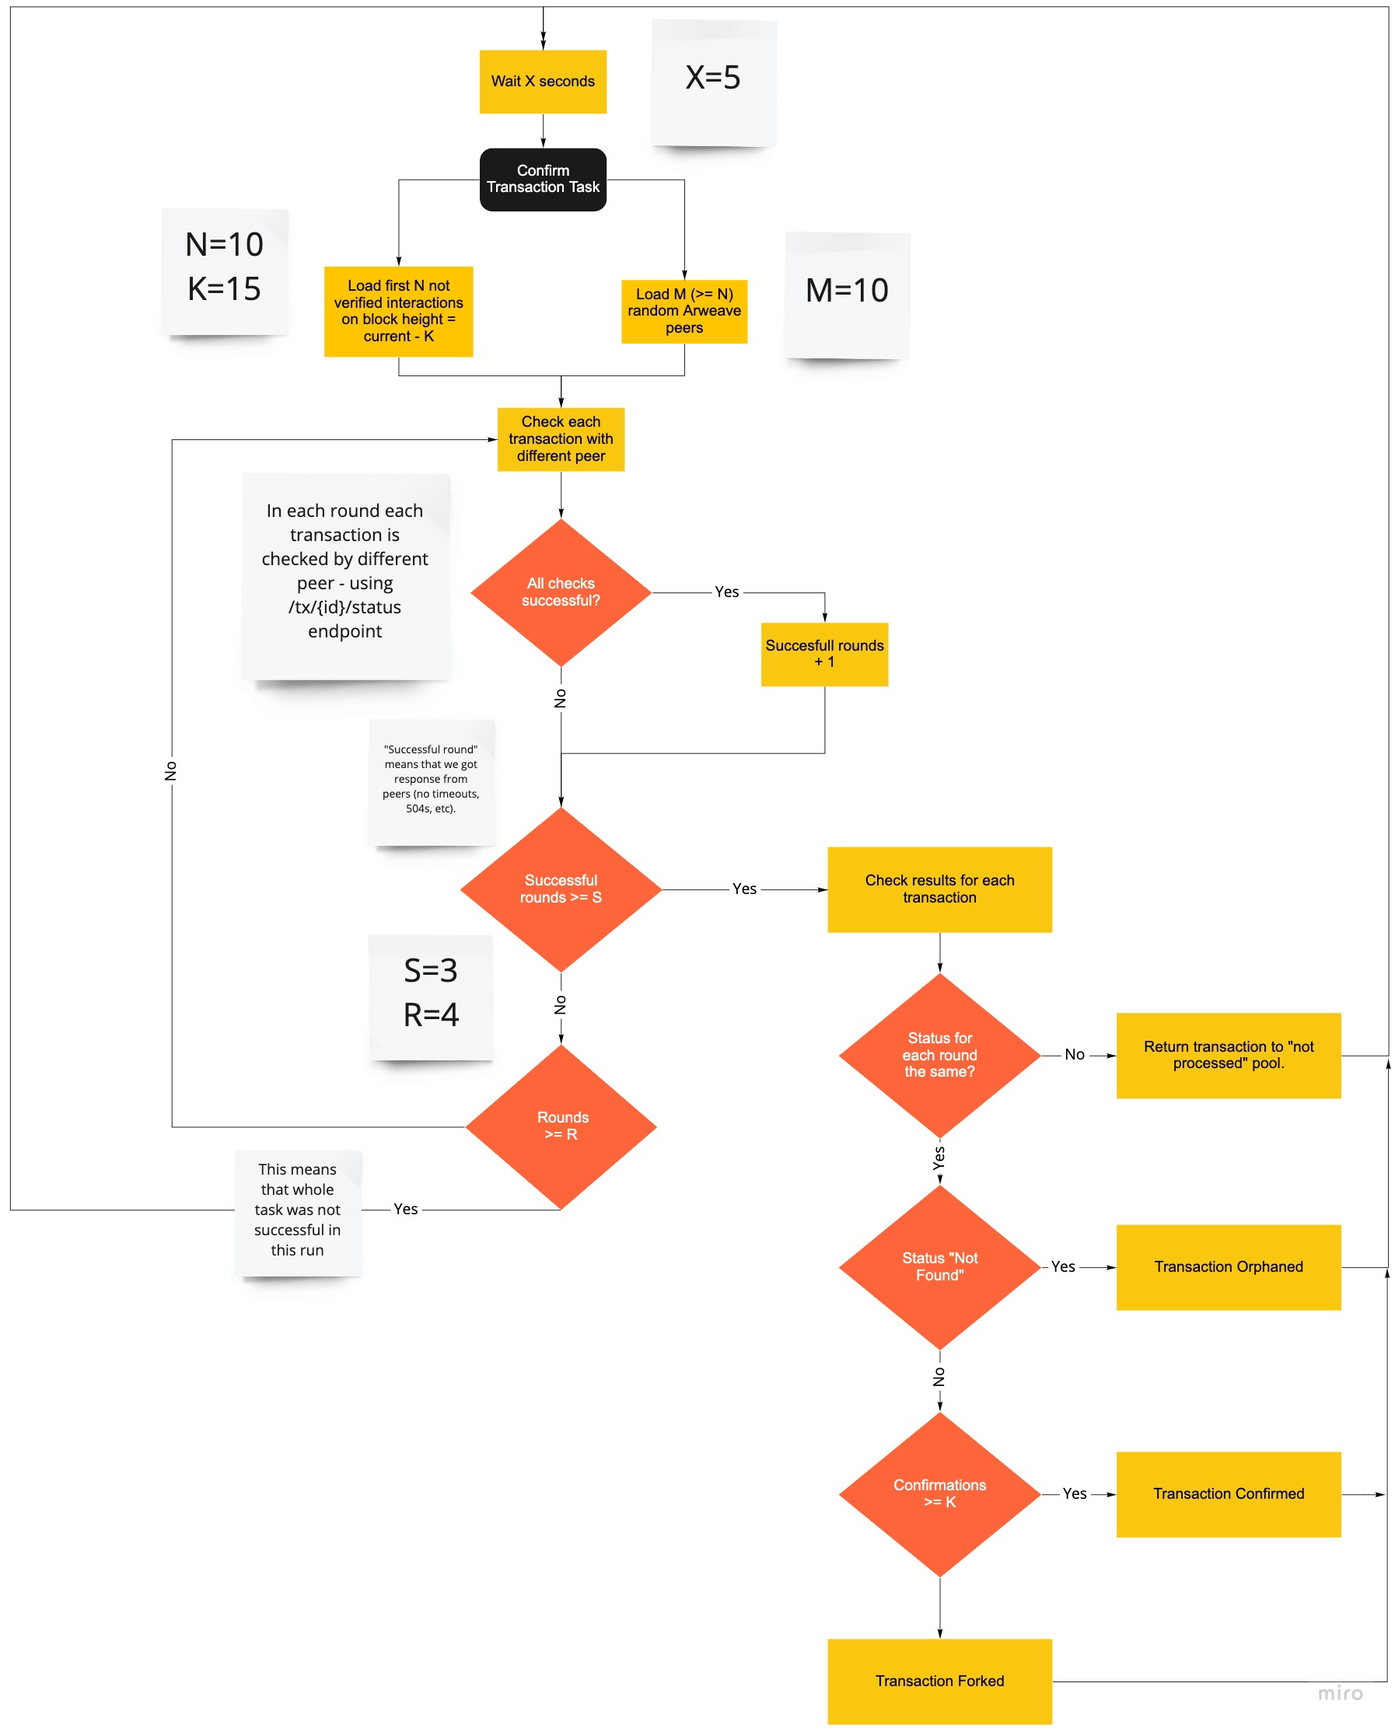
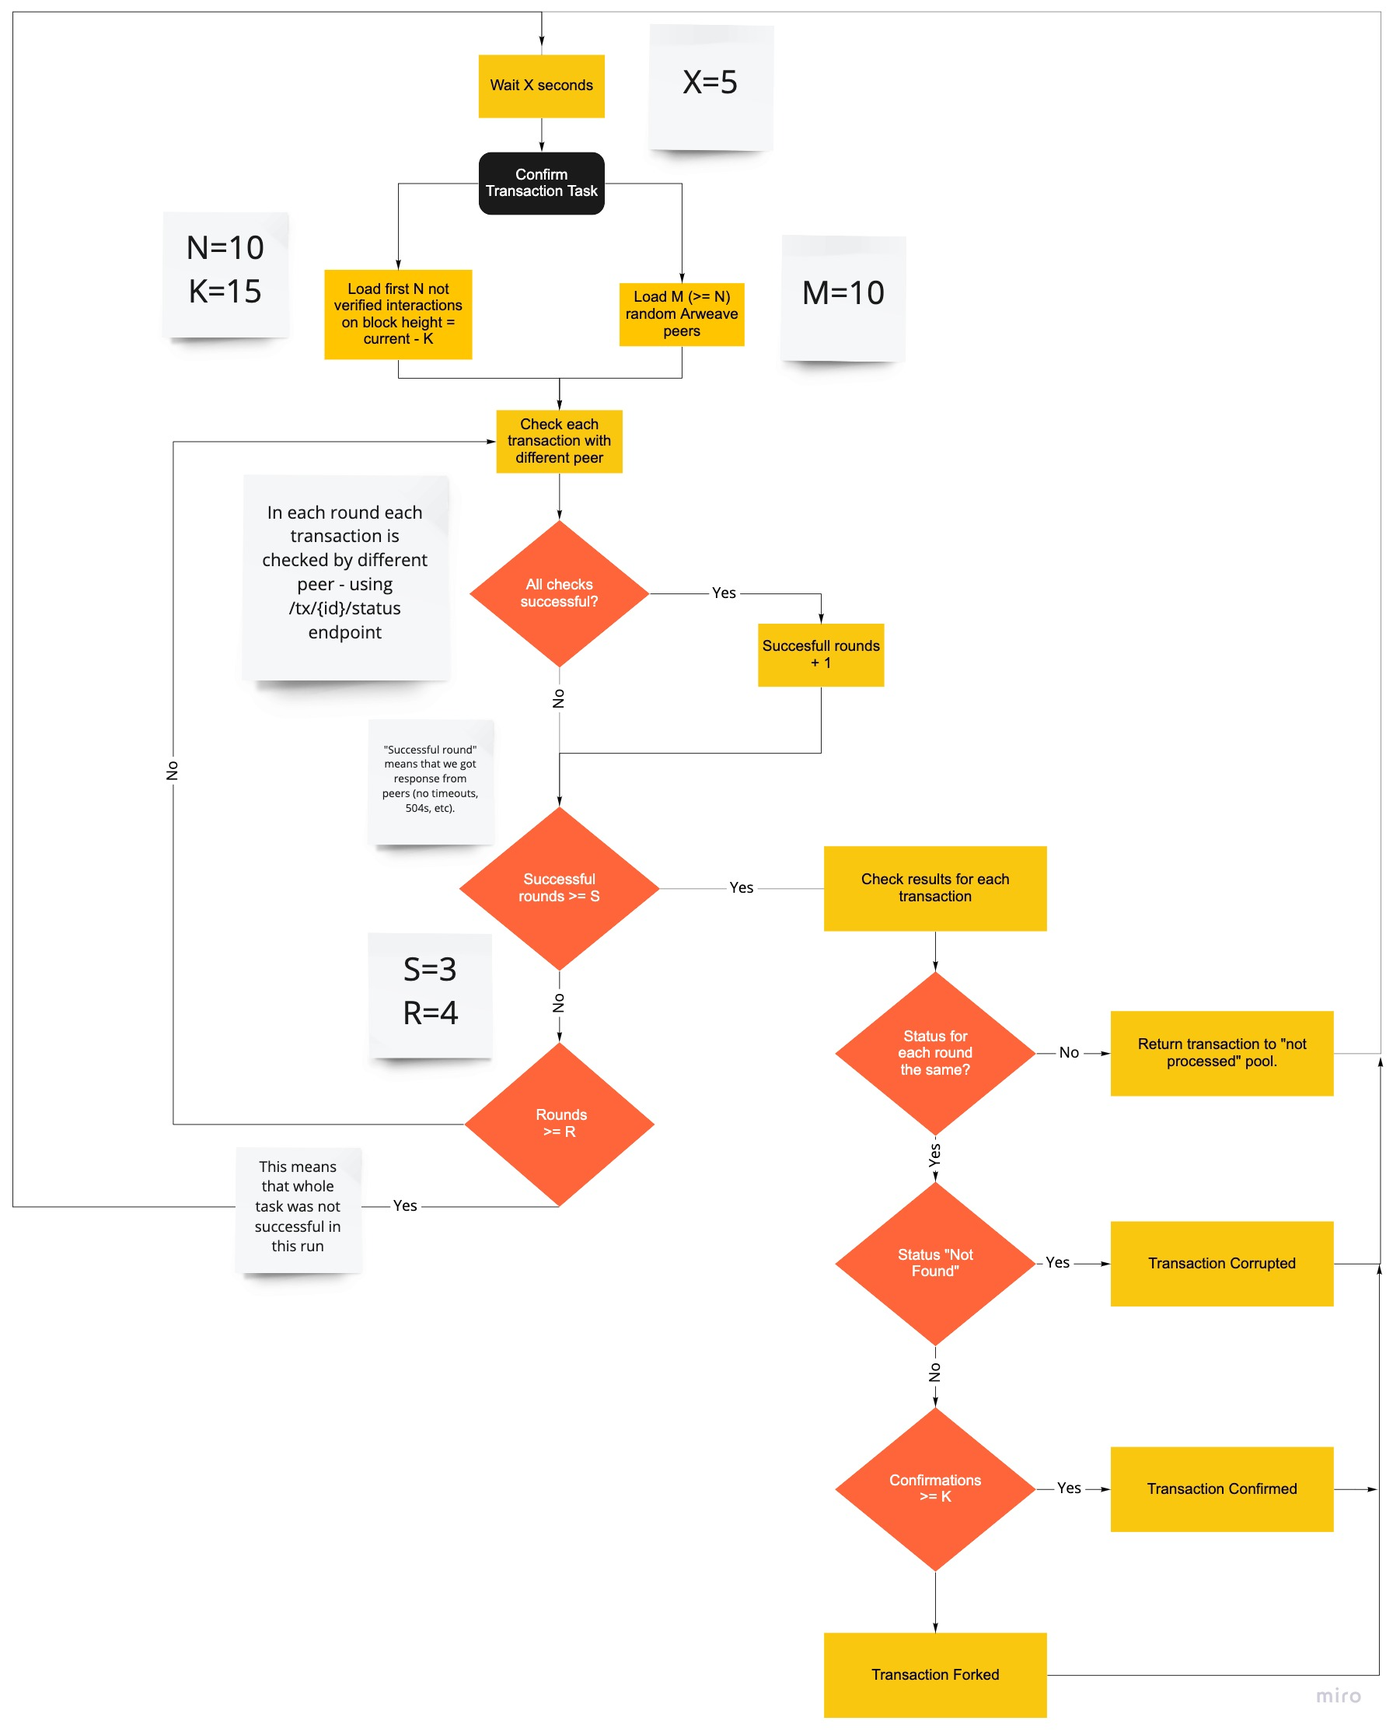
feat: node cluster support

diff --git a/src/gateway/init.ts b/src/gateway/init.ts
@@ -11,6 +11,8 @@ import {runGateway} from "./runGateway";
 import gatewayRouter from "./router/gatewayRouter";
 import Application from "koa";
 import {initGatewayDb} from "../db/schema";
+import * as fs from "fs";
+import cluster from 'cluster';
 
 const argv = yargs(hideBin(process.argv)).parseSync();
 const envPath = argv.env_path || '.secrets/prod.env';
@@ -28,6 +30,16 @@ export interface GatewayContext {
     path: envPath
   });
 
+  let removeLock = false;
+
+  process.on('SIGINT', () => {
+    logger.warn("SIGINT");
+    if (removeLock) {
+      logger.debug("Removing lock file.");
+      fs.rmSync('gateway.lock');
+    }
+  });
+
   const port = parseInt((process.env.PORT || 5666).toString());
 
   LoggerFactory.use(new TsLogFactory());
@@ -35,14 +47,15 @@ export interface GatewayContext {
   LoggerFactory.INST.logLevel("debug", "gateway");
 
   const arweave = initArweave();
-  const gatewayLogger = LoggerFactory.INST.create("gateway");
+  const logger = LoggerFactory.INST.create("gateway");
 
   const gatewayDb = connect();
+
   await initGatewayDb(gatewayDb);
 
   const app = new Koa<Application.DefaultState, GatewayContext>();
   app.context.gatewayDb = gatewayDb;
-  app.context.logger = gatewayLogger;
+  app.context.logger = logger;
   app.context.arweave = arweave;
 
   app.use(cors());
@@ -52,12 +65,22 @@ export interface GatewayContext {
   app.use(gatewayRouter.allowedMethods());
 
   app.listen(port);
-  gatewayLogger.info(`Listening on port ${port}`);
+  logger.info(`Listening on port ${port}`);
 
-  try {
-    await runGateway(app.context);
-  } catch (e: any) {
-    gatewayLogger.error('Error from gateway', e);
+  if (!fs.existsSync('gateway.lock')) {
+    try {
+      logger.debug(`Creating lock file for ${cluster.worker?.id}`);
+      // note: if another process in cluster have already created the file - writing here
+      // will fail thanks to wx flags. https://stackoverflow.com/a/31777314
+      fs.writeFileSync('gateway.lock', "" + cluster.worker?.id, { flag: 'wx' });
+      removeLock = true;
+
+      // note: only one worker in cluster runs the gateway tasks
+      // all workers in cluster run the http server
+      await runGateway(app.context);
+    } catch (e: any) {
+      logger.error('Error from gateway', e);
+    }
   }
 })();
 

diff --git a/src/gateway/runGateway.ts b/src/gateway/runGateway.ts
@@ -1,8 +1,6 @@
-import {Knex} from "knex";
-import Application from "koa";
 import {runLoadPeersTask} from "./tasks/loadPeers";
 import {runVerifyInteractionsTask} from "./tasks/verifyInteractions";
-import {runVerifyOrphansTask} from "./tasks/verifyOrphans";
+import {runVerifyCorruptedTransactionsTask} from "./tasks/verifyCorruptedTransactions";
 import {runSyncTransactionsTask} from "./tasks/syncTransactions";
 import {GatewayContext} from "./init";
 
@@ -17,7 +15,7 @@ import {GatewayContext} from "./init";
  *
  * 2. blocks sync task - listens for new blocks and loads the SmartWeave interaction transactions.
  *
- * 3. interactions verifier task - tries its best to confirm that transactions are not orphaned.
+ * 3. interactions verifier task - tries its best to confirm that transactions are not corrupted.
  * It takes the first PARALLEL_REQUESTS non confirmed transactions with block height lower then
  * current - MIN_CONFIRMATIONS.
  * For each set of the selected 'interactionsToCheck' transactions it makes
@@ -26,8 +24,8 @@ import {GatewayContext} from "./init";
  * AND response for the given transaction is the same for all the successful rounds
  * - the "confirmation" info for given transaction is updated in the the database.
  *
- * 4. orphans verifier task - additional task that double-verifies interactions marked as orphans. If during the
- * re-check the interaction won't be recognized as an orphan - it is returned to the "not processed" pool.
+ * 4. corrupted transactions verifier task - additional task that double-verifies interactions marked as corrupted. If during the
+ * re-check the interaction won't be recognized as corrupted - it is returned to the "not processed" pool.
  *
  * note: as there are very little fully synced nodes and they often timeout/504 - this process is a real pain...
  */
@@ -38,5 +36,5 @@ export async function runGateway(context: GatewayContext) {
 
   await runVerifyInteractionsTask(context)
 
-  await runVerifyOrphansTask(context);
+  await runVerifyCorruptedTransactionsTask(context);
 }

diff --git a/src/gateway/tasks/verifyCorruptedTransactions.ts b/src/gateway/tasks/verifyCorruptedTransactions.ts
@@ -1,0 +1,59 @@
+import {TaskRunner} from "./TaskRunner";
+import {MIN_CONFIRMATIONS} from "./verifyInteractions";
+import {GatewayContext} from "../init";
+
+const CORRUPTED_CHECK_INTERVAL_MS = 1000 * 60 * 60 * 4;
+
+export async function runVerifyCorruptedTransactionsTask(context: GatewayContext) {
+  await TaskRunner
+    .from("[corrupted transactions check]", verifyCorruptedTransactions, context)
+    .runAsyncEvery(CORRUPTED_CHECK_INTERVAL_MS);
+}
+
+async function verifyCorruptedTransactions(context: GatewayContext) {
+  const {arweave, logger, gatewayDb} = context;
+
+  let corruptedTransactions: { id: string; }[];
+
+  try {
+    corruptedTransactions = (await gatewayDb.raw(`
+        SELECT interaction_id as id
+        FROM interactions
+        WHERE confirmation_status = 'corrupted';
+    `)).rows;
+  } catch (e: any) {
+    logger.error('Error while checking corrupted transactions', e.message);
+    return;
+  }
+
+  logger.debug(`Rechecking ${corruptedTransactions.length} corrupted transactions`);
+
+  for (const corrupted of corruptedTransactions) {
+    try {
+      const result = await arweave.transactions.getStatus(corrupted.id);
+      if (result.status !== 404
+        && result
+        && result.confirmed
+        && result.confirmed.number_of_confirmations >= MIN_CONFIRMATIONS) {
+        logger.warn(`Transaction ${corrupted.id} is probably not corrupted, confirmations ${result.confirmed.number_of_confirmations}`);
+
+        // returning transaction to "not_processed" pool.
+        await gatewayDb("interactions")
+          .where("interaction_id", corrupted.id)
+          .update({
+            confirmation_status: 'not_processed',
+            confirming_peer: null,
+            confirmations: null
+          });
+
+      } else {
+        logger.info(`Transaction ${corrupted.id} confirmed as corrupted`);
+      }
+    } catch (e) {
+      logger.error(`Error while verifying ${corrupted.id}`);
+    }
+  }
+
+
+  logger.info("Corrupted transactions confirmation done.");
+}

diff --git a/src/gateway/tasks/verifyInteractions.ts b/src/gateway/tasks/verifyInteractions.ts
@@ -43,7 +43,7 @@ async function verifyInteractions(context: GatewayContext) {
     lastVerificationHeight
   });
 
-  // note: as the "status" endpoint for arweave.net sometime returns 504 - Bad Gateway for orphaned transactions,
+  // note: as the "status" endpoint for arweave.net sometime returns 504 - Bad Gateway for corrupted transactions,
   // we need to ask peers directly...
   // https://discord.com/channels/357957786904166400/812013044892172319/917819482787958806
   // only 7 nodes are currently fully synced, duh...
@@ -167,13 +167,13 @@ async function verifyInteractions(context: GatewayContext) {
         const statusResponse = statuses[i];
         const txId = interactionsToCheck[i].interaction_id;
         if (statusResponse.status === "rejected") {
-          // interaction is (probably) orphaned
+          // interaction is (probably) corrupted
           if (statusResponse.reason.response?.status === 404) {
             logger.warn(`Interaction ${txId} on ${statusResponse.reason.request.host} not found.`);
             roundResult.push({
               txId: txId,
               peer: statusResponse.reason.request.host,
-              result: "orphaned",
+              result: "corrupted",
               confirmations: 0,
             });
           } else {

diff --git a/src/gateway/router/routes/contractsRoute.ts b/src/gateway/router/routes/contractsRoute.ts
@@ -24,7 +24,7 @@ export async function contractsRoute(ctx: Router.RouterContext) {
       `
           SELECT contract_id                                                             AS contract,
                  count(interaction)                                                      AS interactions,
-                 count(case when confirmation_status = 'orphaned' then 1 else null end)  AS orphaned,
+                 count(case when confirmation_status = 'corrupted' then 1 else null end) AS corrupted,
                  count(case when confirmation_status = 'confirmed' then 1 else null end) AS confirmed,
                  max(block_height)                                                       AS last_interaction_height,
                  count(*) OVER ()                                                        AS total

diff --git a/src/db/schema.ts b/src/db/schema.ts
@@ -28,7 +28,7 @@ export async function initGatewayDb(db: Knex) {
         .index()
         .notNullable()
         // TODO: add constraint for allowed values
-        // not_processed | orphaned | confirmed | forked
+        // not_processed | corrupted | confirmed | forked
         .defaultTo("not_processed");
       table.string("confirming_peer");
       table.bigInteger("confirmed_at_height");

diff --git a/src/gateway/router/routes/interactionsRoute.ts b/src/gateway/router/routes/interactionsRoute.ts
@@ -23,7 +23,7 @@ export async function interactionsRoute(ctx: Router.RouterContext) {
   const offset = parsedPage ? (parsedPage - 1) * parsedLimit : 0;
 
   const parsedConfirmationStatus = confirmationStatus
-    ? confirmationStatus == "not_orphaned"
+    ? confirmationStatus == "not_corrupted"
       ? ['confirmed', 'not_processed'] : [confirmationStatus]
     : undefined;
 

diff --git a/README.md b/README.md
@@ -4,13 +4,13 @@ RedStone SmartWeave Gateway - a fast and reliable way to
 load [SmartWeave](https://github.com/redstone-finance/redstone-smartcontracts) transactions.
 
 1. fast - load your contract interactions in seconds, not minutes!
-2. reliable - built-in protection against forks and orphaned transactions
+2. reliable - built-in protection against forks and corrupted transactions
 
 - [RedStone SmartWeave Gateway](#redstone-smartweave-gateway)
     + [Reasoning](#reasoning)
     + [Our solution](#our-solution)
     + [Benchmarks](#benchmarks)
-    + [Orphaned transactions](#orphaned-transactions)
+    + [Corrupted transactions](#corrupted-transactions)
     + [Installation](#installation)
     + [Running](#running)
     + [Running (Docker)](#running--docker-)
@@ -24,7 +24,7 @@ load [SmartWeave](https://github.com/redstone-finance/redstone-smartcontracts) t
 SmartWeave is an Arweave-based protocol for lazy-evaluated smart contracts. Each interaction with a contract is saved as
 a separate Arweave transaction. In order to evaluate the contract state, all of its interactions must be loaded first.
 
-In the case of typical content getting an orphaned or not confirmed transaction is not a severe issue, while any
+In the case of typical content getting a corrupted or not confirmed transaction is not a severe issue, while any
 inconsistency could be extremely harmful to smart contracts, leading to a potential financial loss due to the corrupted
 state of token contracts.
 
@@ -36,31 +36,32 @@ The current available solution ("general-purpose" Arweave gateway) has some flaw
    For our [loot contract](https://github.com/redstone-finance/smartweave-loot) (that has 9821 interactions) it means
    that loading all the interactions takes around 1 minute.   
    There are contracts with much more interactions - the biggest one has over 280K interactions - loading all the
-   interactions for this contract takes ~3 hours. This clearly shows that the current solution scales poorly and is a first
-   big obstacle for a wider SmartWeave contracts adoption.
+   interactions for this contract takes ~3 hours. This clearly shows that the current solution scales poorly and is a
+   first big obstacle for a wider SmartWeave contracts adoption.
 
-2. **Orphaned transactions**  
-   The Arweave gateway GQL endpoint tends to return orphaned transactions - i.e. such transactions, that are not part of
-   any Arweave block - probably due to some caching issues/bug in the Arweave
+2. **Corrupted transactions**  
+   The Arweave gateway GQL endpoint tends to return corrupted transactions - i.e. such transactions, that are not part
+   of any Arweave block - probably due to some caching issues/bug in the Arweave
    gateway (https://discord.com/channels/357957786904166400/756557551234973696/891254856638160917)
-   The state evaluated with such orphaned transactions is obviously flawed. In case of our loot contract - 25
-   transactions returned by the Arweave gateway are orphaned.
+   The state evaluated with such corrupted transactions is obviously flawed. In case of our loot contract - 25
+   transactions returned by the Arweave gateway are corrupted.
 
 3. **Forked blocks problem**  
    No protection against transactions from forked blocks.
 
-All the issues also make things like caching the contract state very risky - as you have no guarantee that the state has been evaluated for proper inputs.
+All the issues also make things like caching the contract state very risky - as you have no guarantee that the state has
+been evaluated for proper inputs.
 
 ### Our solution
 
-We combine data from both the Arweave Gateway and the Arweave peers directly, perform transactions validation,
-store and index them in a dedicated database.
+We combine data from both the Arweave Gateway and the Arweave peers directly, perform transactions validation, store and
+index them in a dedicated database.
 ![gateway](./docs/gateway.png)
 
 The RedStone Gateway consists of three main tasks:
 
-1. The Sync Arweave Peers Task - this task is responsible for loading information about currently active peers and ranking
-   them by the amount of synced blocks and response times.
+1. The Sync Arweave Peers Task - this task is responsible for loading information about currently active peers and
+   ranking them by the amount of synced blocks and response times.
 2. The Sync Transactions Task - this task is responsible for loading and indexing SmartWeave interaction transactions
    from the newly mined blocks
 3. Confirm Interactions Task - the most complicated task, responsible for confirming transactions.
@@ -74,7 +75,7 @@ The RedStone Gateway consists of three main tasks:
 
     * the "confirmation" info for a given transaction is updated in the database.
 
-![confrim interactions task](./docs/conf_task.png)
+![confirmm interactions task](./docs/conf_task.png)
 
 ### Benchmarks
 
@@ -93,13 +94,13 @@ Tested for block height range: 0 - 831901
 | <sub>-8A6RexFkpfWwuyVO98wzSFZh0d6VJuI-buTJvlwOJQ</sub> |   ArDrive PST   |                    4786 |          <sub>20s</sub> |       <sub>710ms</sub> |              <sub>190ms</sub> |
 | <sub>usjm4PCxUd5mtaon7zc97-dt-3qf67yPyqgzLnLqk5A</sub> |    Verto PST    |                    1041 |           <sub>3s</sub> |       <sub>459ms</sub> |              <sub>142ms</sub> |
 
-### Orphaned transactions
+### Corrupted transactions
 
-List of first 15 contracts with the highest number of orphaned transactions. Orphaned transactions are transactions that are not part
-of any block - but they are still returned by the Arweave GQL endpoint. This creates a huge problem when evaluating the
-state - especially in the case of PSTs and `transfer` interactions.
+List of first 15 contracts with the highest number of corrupted transactions. Corrupted transactions are transactions
+that are not part of any block - but they are still returned by the Arweave GQL endpoint. This creates a huge problem
+when evaluating the state - especially in the case of PSTs and `transfer` interactions.
 
-| Contract                                     |     Project     | Orphans |
+| Contract                                     |     Project     | Corrupted |
 | -------------------------------------------- | :-------------: | ------: |
 | Daj-MNSnH55TDfxqC7v4eq0lKzVIwh98srUaWqyuZtY  | RedStone - loot |      25 |
 | -8A6RexFkpfWwuyVO98wzSFZh0d6VJuI-buTJvlwOJQ  |   ArDrive PST   |       9 |
@@ -176,8 +177,8 @@ Response:
       // total amount of interactions
       "last_interaction_height": 835229,
       // last synced interaction block height
-      "orphaned": "6",
-      // amount of orphaned interactions
+      "corrupted": "6",
+      // amount of corrupted interactions
       "total": "4145"
       // total amount of contracts (helper)
     }
@@ -194,6 +195,7 @@ Examples:
 #### Interactions endpoint
 
 `/gateway/interactions?contractId=<contract_id>&confirmationStatus=<confirmation_status>&from=<block_height_from>&to=<block_height_to>&page=<page>`
+
 - returns a list of a given contract interactions, ordered by `[block_height ASC]`.
 
 Parameters:
@@ -201,11 +203,11 @@ Parameters:
 1. `contractId` - tx id of the contract to load the interactions for
 2. `page` [optional] - page, e.g.: `gateway/interactions?page=3`. If not set, first page is returned by default.
 3. `limit` [optional] - amount of interactions per single page
-4. `confirmatinStatus` [optional], e.g.: `gateway/interactions?confirmationStatus=orphaned`. If not set, loads all the
+4. `confirmatinStatus` [optional], e.g.: `gateway/interactions?confirmationStatus=corrupted`. If not set, loads all the
    contract interactions.
     1. `confimed` - loads only the `confirmed` contract interactions
-    2. `orphaned` - loads only the `orphaned` contract interactions
-    3. `not_orphaned` - loads both `confirmed` and `not processed` interactions
+    2. `corrupted` - loads only the `corrupted` contract interactions
+    3. `not_corrupted` - loads both `confirmed` and `not processed` interactions
 
 Response:
 
@@ -278,7 +280,7 @@ Response:
         "recipient": ""
       },
       "status": "confirmed"
-      // confirmation status of this interaction (not_processed | confirmed | orphaned | forked)
+      // confirmation status of this interaction (not_processed | confirmed | corrupted | forked)
     }
   ]
 }
@@ -289,15 +291,16 @@ Examples:
 1. `https://d1o5nlqr4okus2.cloudfront.net/gateway/interactions?contractId=Daj-MNSnH55TDfxqC7v4eq0lKzVIwh98srUaWqyuZtY` -
    loads all contract interactions
 2. `https://d1o5nlqr4okus2.cloudfront.net/gateway/interactions?contractId=Daj-MNSnH55TDfxqC7v4eq0lKzVIwh98srUaWqyuZtY&page=2`
-   - loads all contract interactions, shows 2nd. page
+    - loads all contract interactions, shows 2nd. page
 3. `https://d1o5nlqr4okus2.cloudfront.net/gateway/interactions?contractId=Daj-MNSnH55TDfxqC7v4eq0lKzVIwh98srUaWqyuZtY&page=2&confirmationStatus=confirmed`
-   - loads only confirmed contract interactions, shows 2nd. page
+    - loads only confirmed contract interactions, shows 2nd. page
 4. `https://d1o5nlqr4okus2.cloudfront.net/gateway/interactions?contractId=Daj-MNSnH55TDfxqC7v4eq0lKzVIwh98srUaWqyuZtY&confirmationStatus=confirmed&from=820000&to=831901`
-   - loads only confirmed contract interaction from block height 820000 to block height 831901
+    - loads only confirmed contract interaction from block height 820000 to block height 831901
 
 ### Further development
 
-1. An option to define the observed contracts - so that each project could run its own instance dedicated to its contracts.
+1. An option to define the observed contracts - so that each project could run its own instance dedicated to its
+   contracts.
 2. Scale the infrastructure, create backup instances, etc.
 3. A form of decentralization with disputes/voting on challenged responses.
 4. Custom network of Arweave nodes, that will listen on and index only SmartWeave interaction transactions (probably
